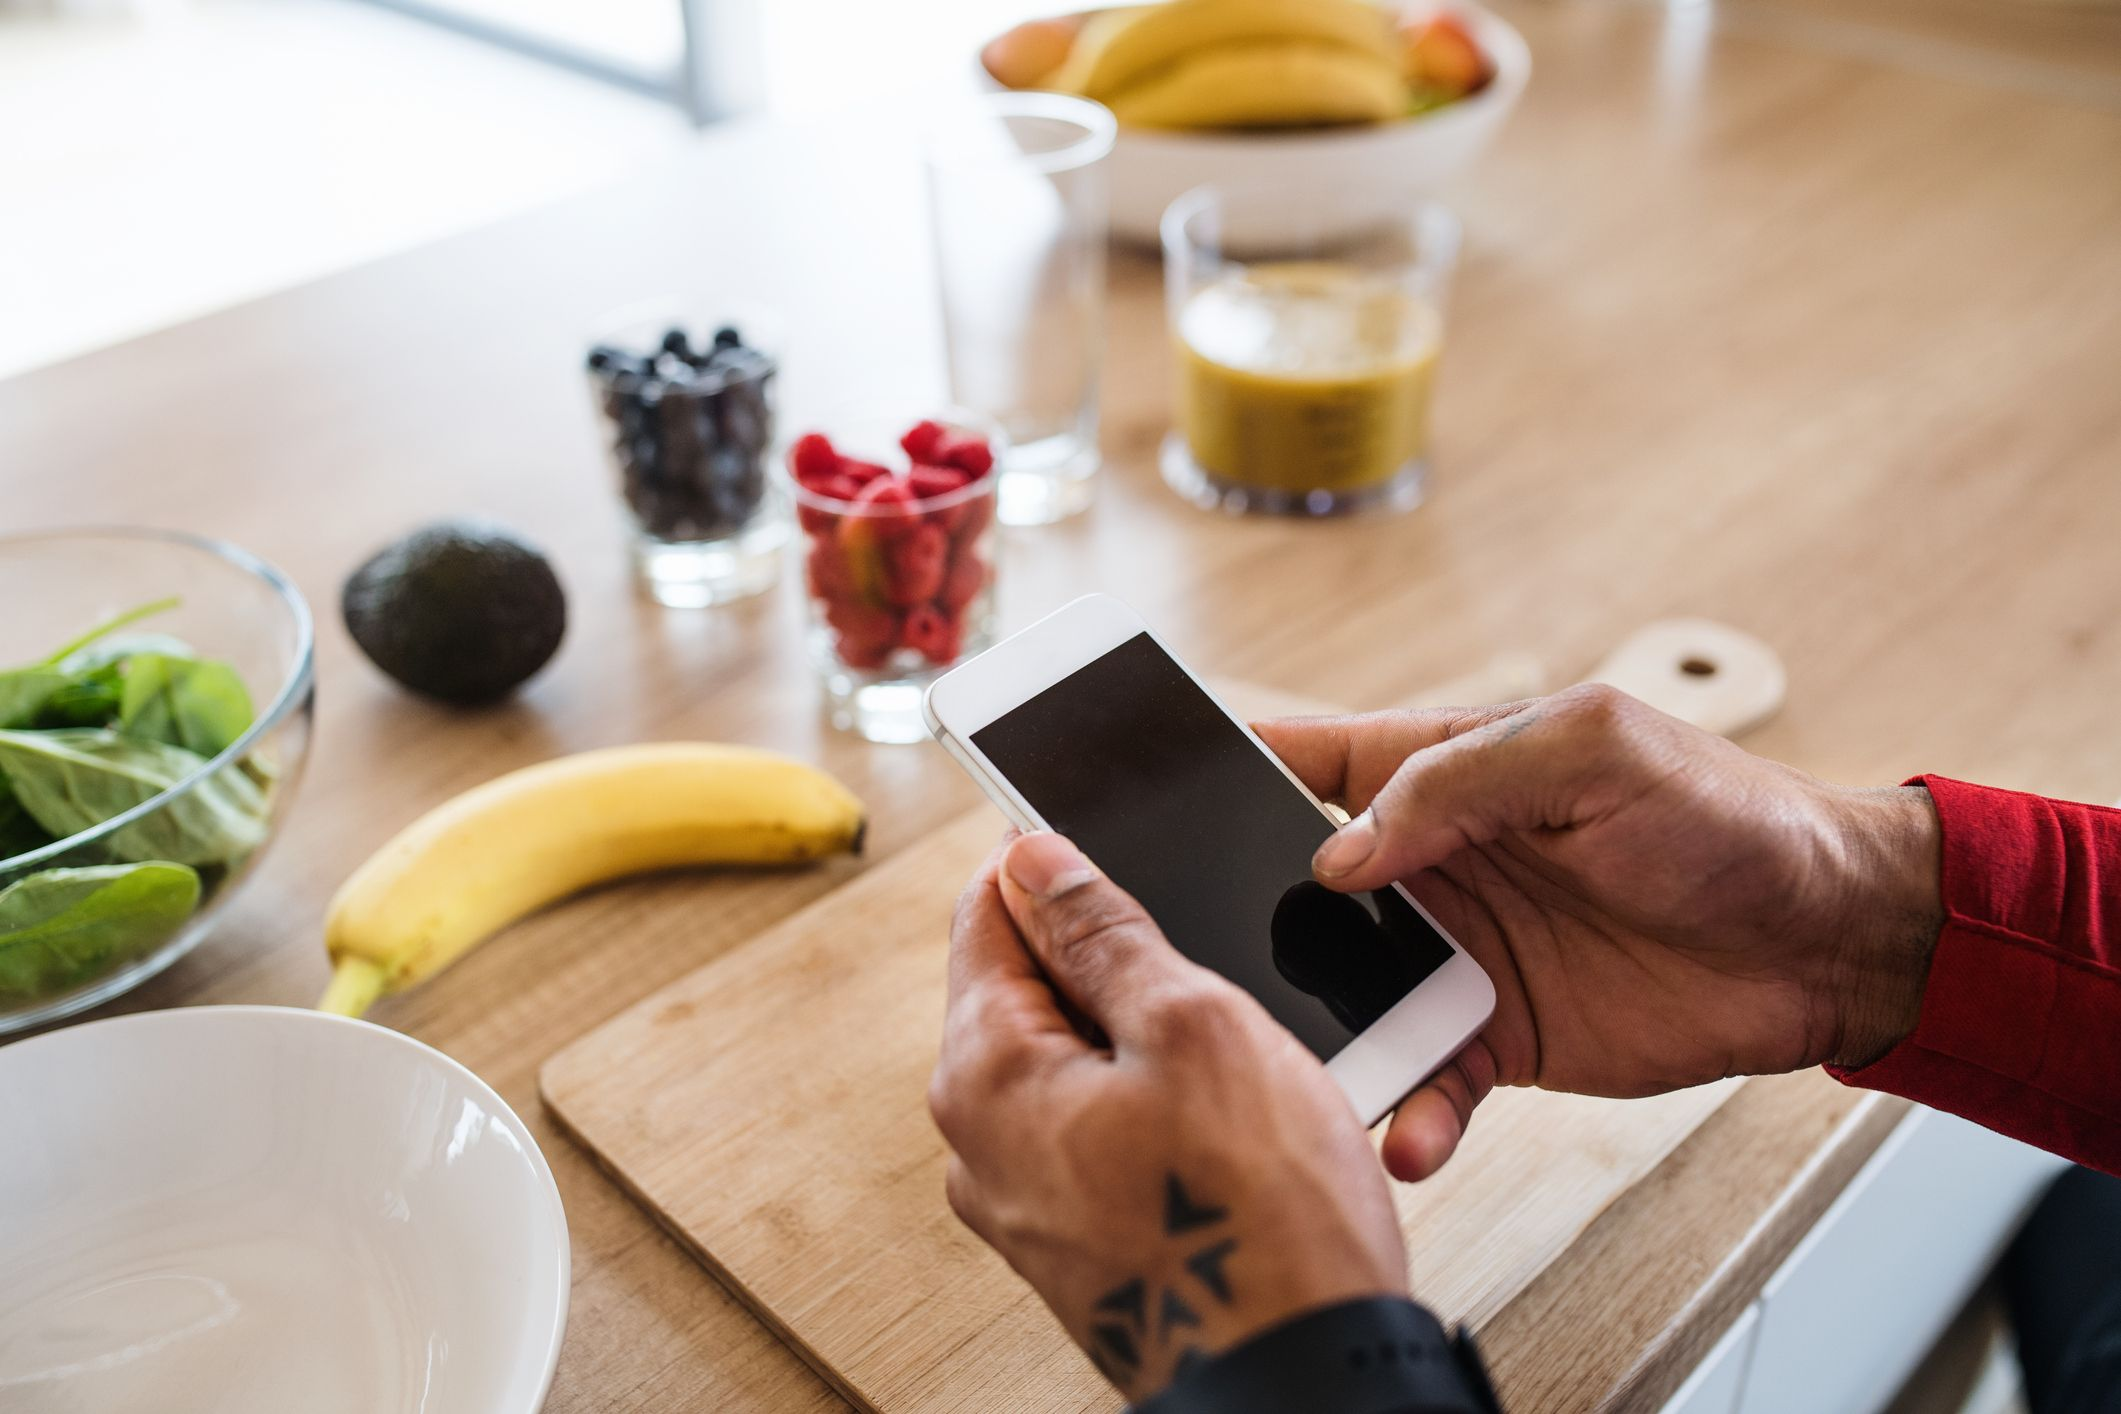
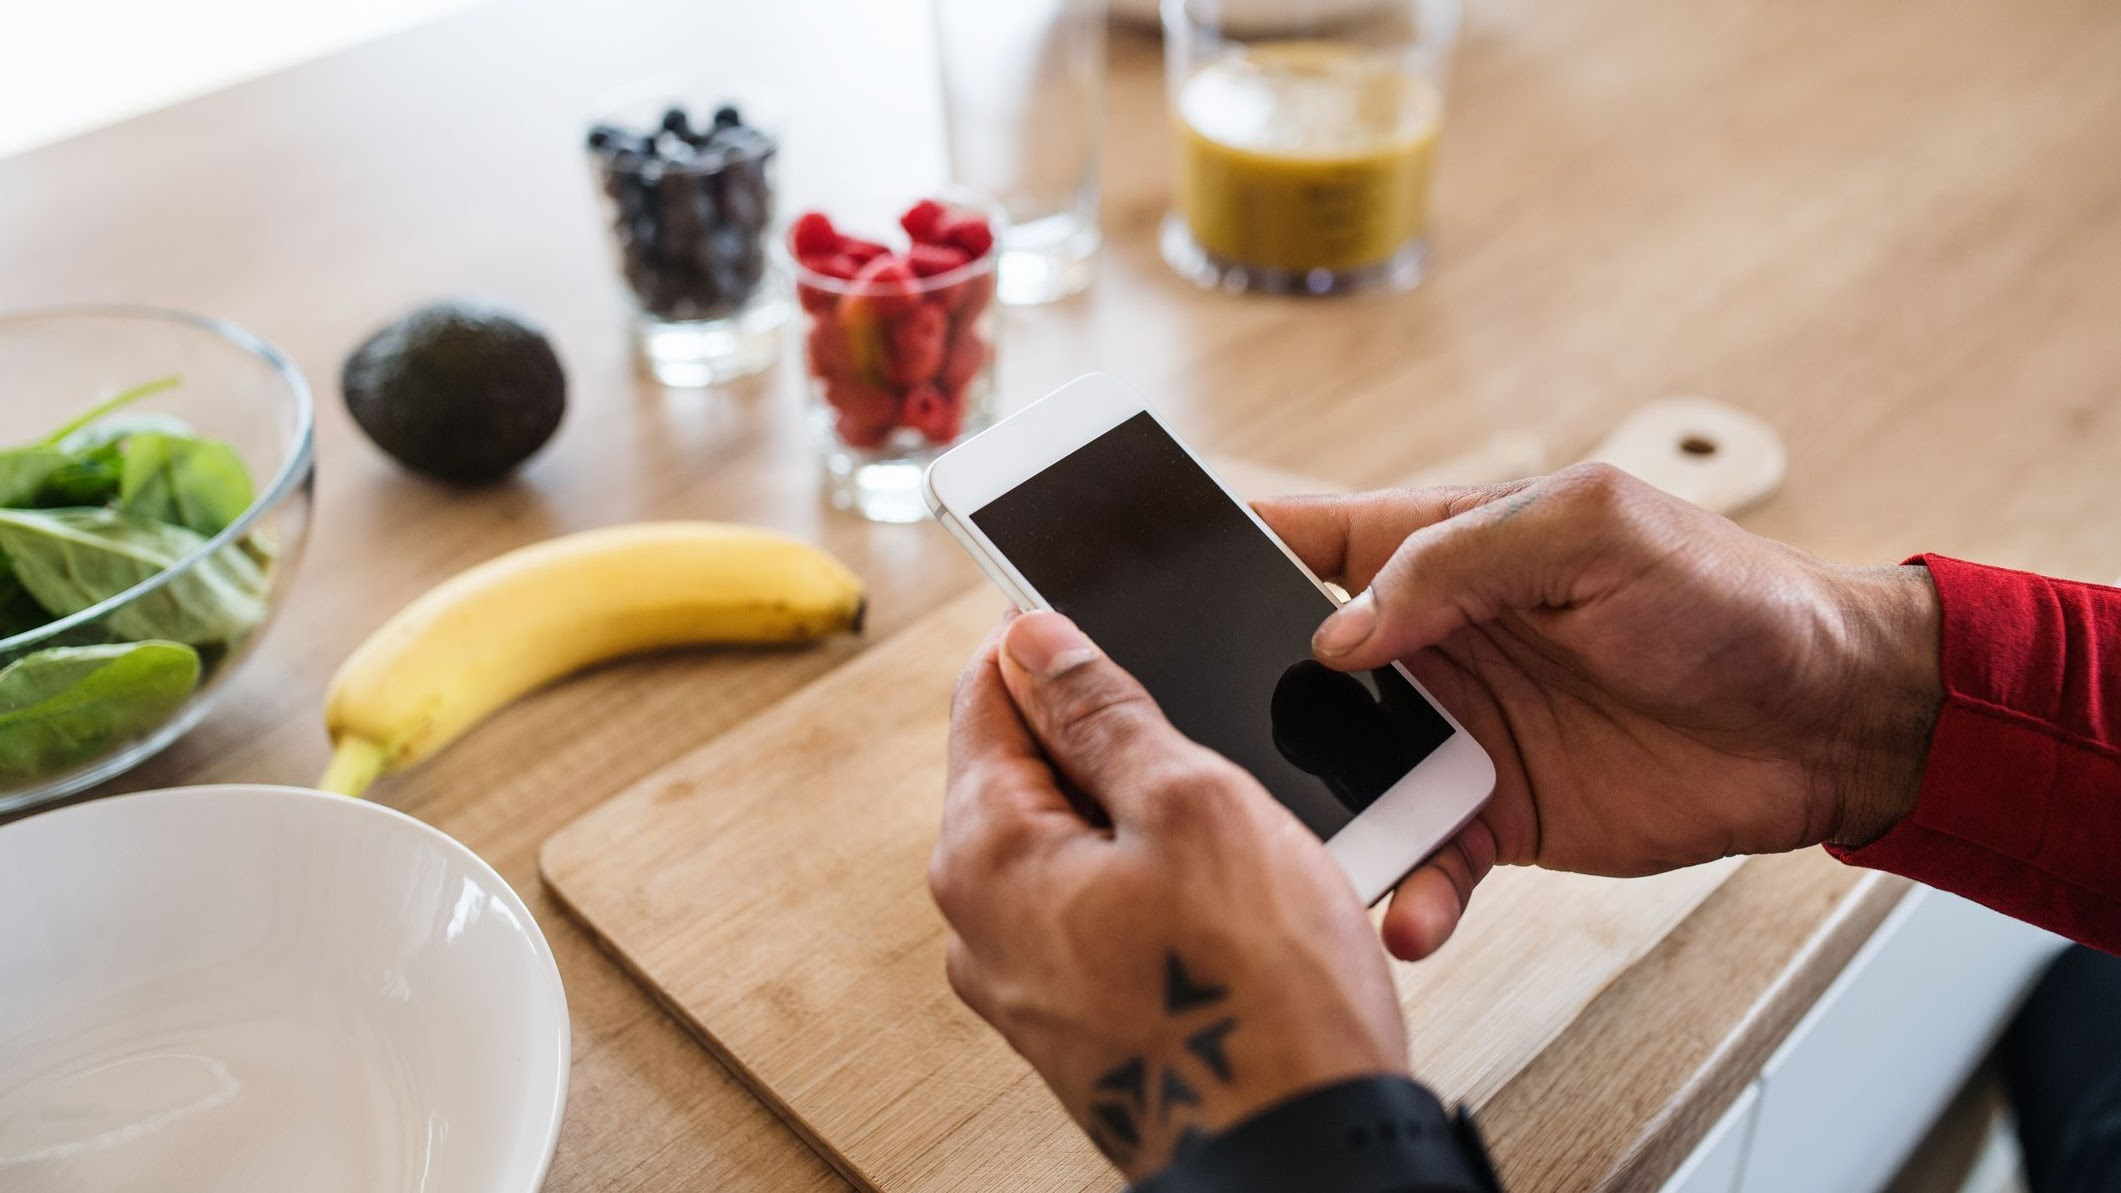
images updated to 16:9 ratio and media queries added for responsive layout

diff --git a/index.html b/index.html
@@ -27,7 +27,7 @@
                     <a href="#projects">Projects</a>
                 </li>
                 <li>
-                    <a href="#contact_info">Contact Info</a>
+                    <a href="#contact">Contact</a>
                 </li>
                 <li>
                     <a href="#">Resume</a>
@@ -64,47 +64,46 @@
             <section class="figures">
                 <!-- add all links to deployed sites upon hovering on pic -->
                 <figure class="bigger">
-                    <figcaption>Automatic Macro Calculator
-                        <p>HTML, CSS</p>
+                    <figcaption>Horiseon Landing Page<p>HTML, CSS</p>
                     </figcaption>
-                    <img src="C:\Users\gegga\OneDrive\Desktop\BC_Class\challenges\challenge2\assets\macro_calc.jpg"
-                        alt="Person holding phone on top of table top with vrious fruit in the background. ">
+                    <img src="C:\Users\gegga\OneDrive\Desktop\BC_Class\challenges\challenge2\assets\c1pic.png"
+                        alt="Website with the header Horiseon and an image below of people in a meeting.">
                 </figure>
 
                 <figure>
-                    <figcaption>BB Arena<p>HTML, CSS</p>
+                    <figcaption>Portfolio<p>HTML, CSS</p>
                     </figcaption>
-                    <img src="C:\Users\gegga\OneDrive\Desktop\BC_Class\challenges\challenge2\assets\bb_arena.png"
-                        alt="Aerial view of two stick figures in a boxing rings">
+                    <img src="C:\Users\gegga\OneDrive\Desktop\BC_Class\challenges\challenge2\assets\c2pic.png"
+                        alt="Website with an about me and work section.">
                 </figure>
 
                 <figure>
-                    <figcaption>Workout Mixer<p>HTML, CSS</p>
+                    <figcaption>BB Arena<p>Love, Lua</p>
+                    </figcaption>
+                    <img src="C:\Users\gegga\OneDrive\Desktop\BC_Class\challenges\challenge2\assets\bb_arena.jpg"
+                        alt="Aerial view of a boxing ring with two people inside of it.">
+                </figure>
+
+                <figure>
+                    <figcaption>Workout<p>HTML, CSS</p>
                     </figcaption>
                     <img src="C:\Users\gegga\OneDrive\Desktop\BC_Class\challenges\challenge2\assets\workout.jpg"
-                        alt="Man's lower body bent into a deadlift postion holding a barbell with weights.">
+                        alt="Rear shot of a man in deadlift position.">
                 </figure>
 
                 <figure>
-                    <figcaption>Best Meals in your Area<p>HTML, CSS</p>
+                    <figcaption>Macro Calc<p>HTML, CSS</p>
                     </figcaption>
-                    <img src="C:\Users\gegga\OneDrive\Desktop\BC_Class\challenges\challenge2\assets\meals.jpg"
-                        alt="Sitting area of a restaurant.">
-                </figure>
-
-                <figure>
-                    <figcaption>Grocery Assistant<p>HTML, CSS</p>
-                    </figcaption>
-                    <img src="C:\Users\gegga\OneDrive\Desktop\BC_Class\challenges\challenge2\assets\groceries.jpg"
-                        alt="Brown paper bag with variety of vegetables spilling onto the table top.">
+                    <img src="C:\Users\gegga\OneDrive\Desktop\BC_Class\challenges\challenge2\assets\macro_calc.jpg"
+                        alt="Person with phone in hand and various fruits in the background.">
                 </figure>
 
             </section>
         </section>
 
         <!-- Footer containing the relevant contact info and links. -->
-        <section id="contact_info">
-            <h2>Contact Info</h2>
+        <section id="contact">
+            <h2>Contact</h2>
             <ul class="info">
                 <li>
                     <p>619-576-1307</p>

diff --git a/assets/css/style.css b/assets/css/style.css
@@ -2,8 +2,7 @@
     --pColor: #333333;
     --sColor: #78c0a9;
     --hFont: 'Courier New', Courier, monospace;
-    --tFont: sans-serif;
-    
+    --tFont: sans-serif;   
 }
 
 .body {
@@ -167,18 +166,22 @@ figure img{
 }
 
 .bigger img {
-    width: 80%;
+    width: 97.5%;
+}
+
+.bigger figure {
+    text-align: center;
 }
 
 /* Styling for footer with contact info */
-#contact_info {
+#contact {
     display: grid;
     grid-template-columns: 20% 80%;
     grid-template-rows: 100%;
     margin: 10px;
 }
 
-#contact_info h2{
+#contact h2{
     border-right: solid var(--sColor) 3px;
     margin-right: 10px;
     padding-right: 10px;
@@ -187,7 +190,7 @@ figure img{
     font-size: 24px;
 }
 
-#contact_info ul{
+#contact ul{
     display: flex;
     font-size: 16px;
     font-family: var(--tFont);
@@ -195,19 +198,97 @@ figure img{
     margin-bottom: 20px;
 }
 
-#contact_info ul li{
+#contact ul li{
     font-family: var(--tFont);
     color: var(--pColor);
     text-decoration: underline;
     text-decoration-color: var(--sColor);
     
 }
+  
+  /* Large smartphones */
+  @media screen and (max-width: 768px) {
+   /* start wrapping text and center */
+   header {
+        flex-direction: column;
+    }
+    .name {
+        width: 100%;
+        justify-content: center;   
+    }
+    header nav {
+        width: 100%;
+        justify-content: center;
+    }
 
-/* fix the sizing of the images, make sure all the same */
-/* add media quereies for responsiveness */
-/* lots of more general formatting */
+   /* header over the section rather than to the side */
+   #bio{
+    display: block;
+    margin: 10px;
+    }
 
-@media screen and (max-width: 576px;){ 
+    #bio h2 {
+        border-right: solid var(--sColor) 0px;
+        margin-right: 0px;
+        padding-right: 0px;
+        text-align: left;
+        border-bottom: solid var(--sColor) 3px;
+        margin-bottom: 10px;
+        padding-bottom: 10px; 
+    }
+
+    #projects {
+        display: block;
+        margin: 10px;
+    }
     
-}
+    .section_title {
+        border-right: solid var(--sColor) 0px;
+        margin-right: 0px;
+        padding-right: 0px;
+        text-align: left;
+        border-bottom: solid var(--sColor) 3px;
+        margin-bottom: 10px;
+        padding-bottom: 10px;   
+    }
 
+    #contact {
+        display: block;
+        margin: 10px;
+    }
+    
+    #contact h2{
+        border-right: solid var(--sColor) 0px;
+        margin-right: 0px;
+        padding-right: 0px;
+        text-align: left;
+        border-bottom: solid var(--sColor) 3px;
+        margin-bottom: 10px;
+        padding-bottom: 10px;
+        
+    }
+  }
+  
+  /* Small smartphones */
+  @media screen and (max-width: 576px) {
+    /* make all project boxes the same size */
+    .figures {
+        display: block;
+    }
+    
+    .bigger img {
+        width: 95%;
+    }
+    /* make contact info and nav a column */
+    #contact ul {
+        flex-direction: column;
+        justify-content: center;
+    }
+
+    #contact ul li {
+        justify-content: center;
+        display: flex;
+        margin: 3px;
+  }
+
+  
